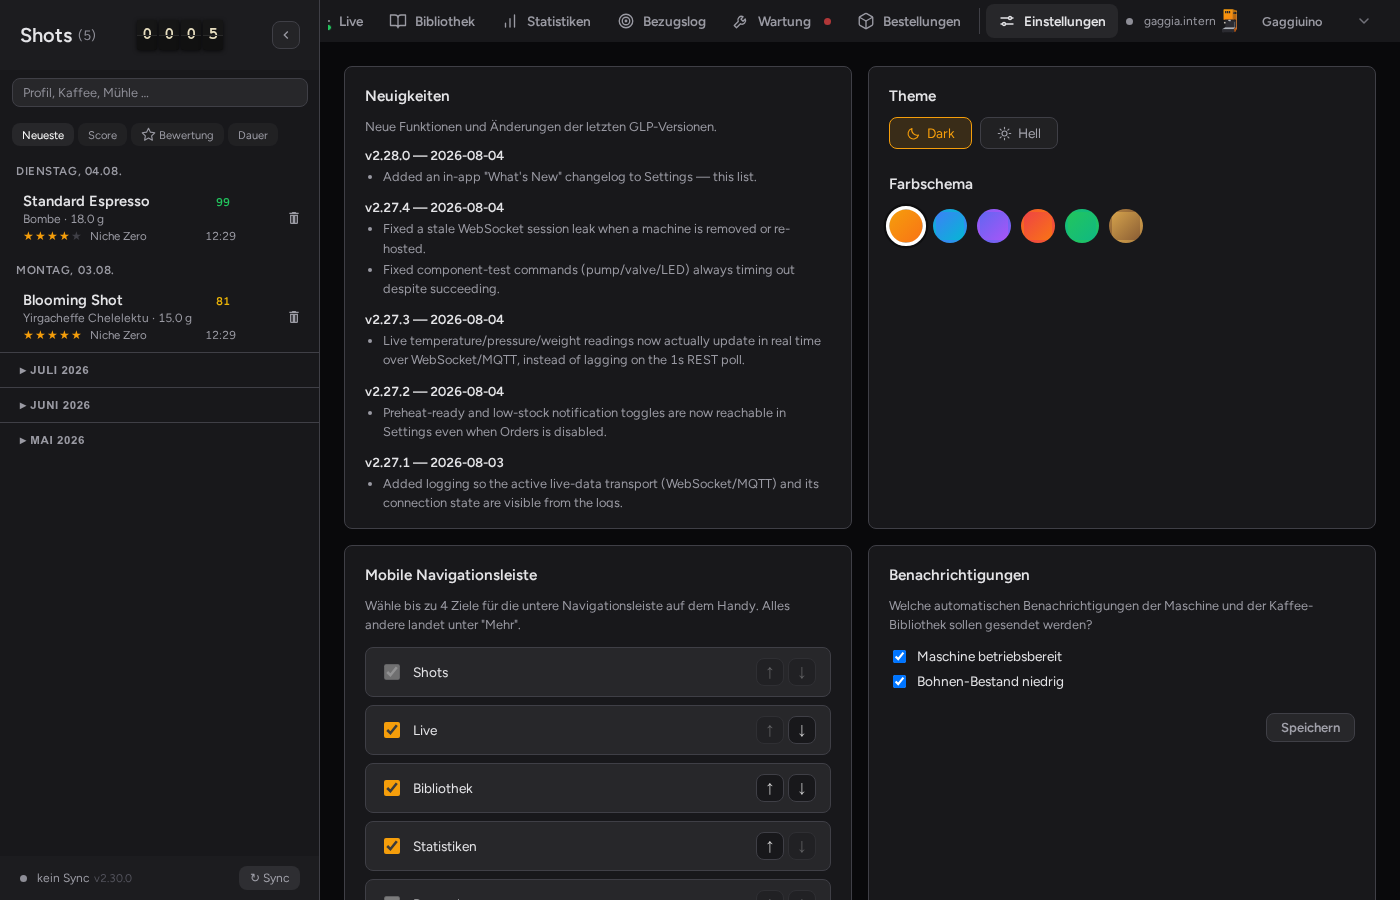
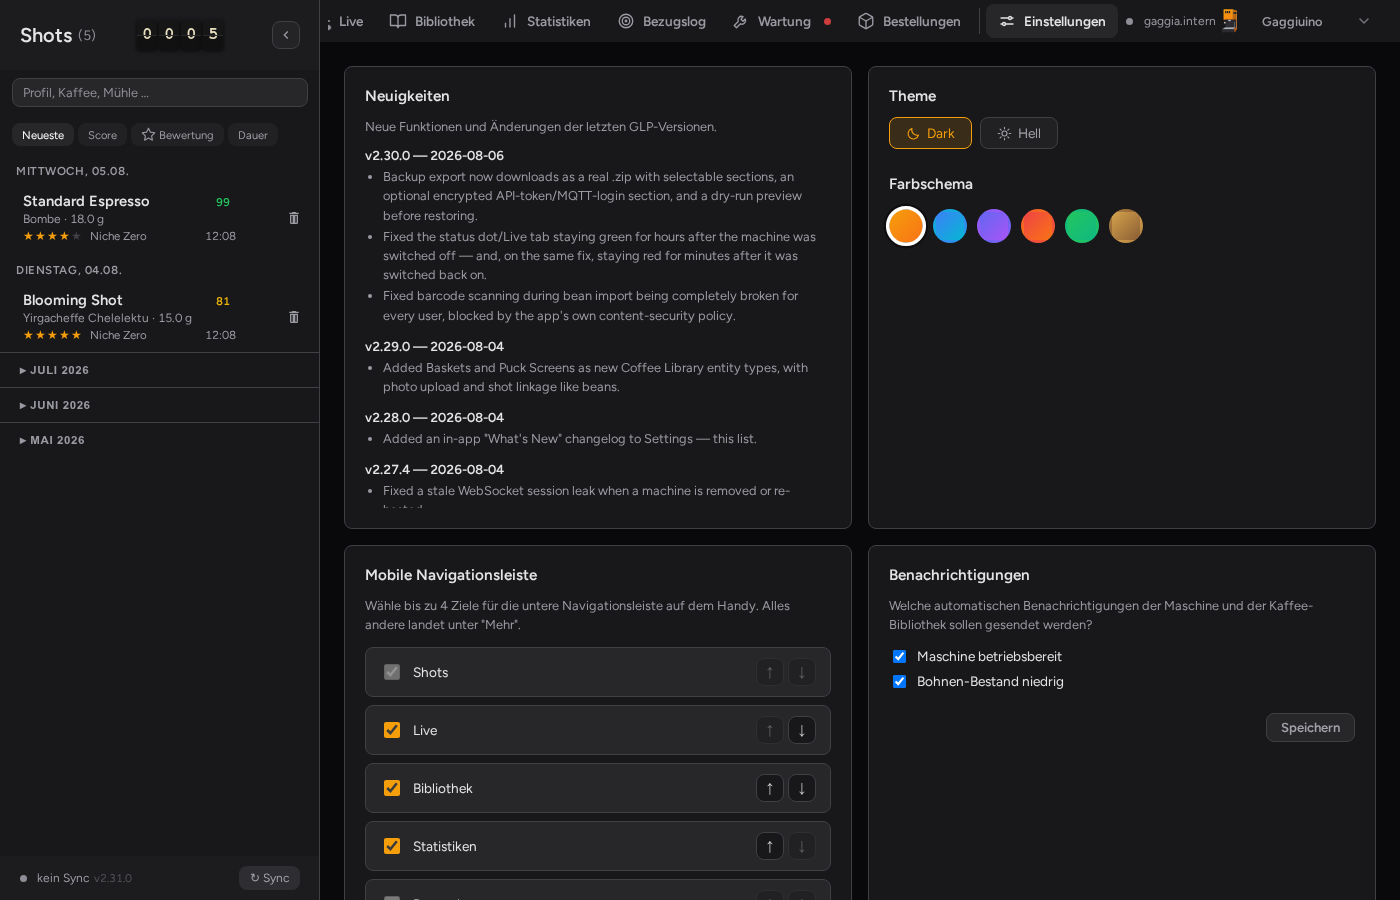
release: v2.31.0
Bump version (constants.js, config.yaml, package.json), move CHANGELOG's
Unreleased section into the 2.31.0 release entry, add a What's New card
entry, regenerate README screenshots and dev-stats, and touch up
README's Analytics/mobile-nav feature rows for basket/puck-screen stats
and edge-swipe.

Closes #654, #620, #668, #679, #684, #677, #675, #691, #681, #682, #683,
#686, #687, #689

Changed region(s): [[0.2457, 0.1867, 0.5836, 0.56], [0.0, 0.1867, 0.0921, 0.2178], [0.0307, 0.28, 0.0921, 0.3111]]

diff --git a/gaggiuino-local-profiler/lib/whats-new.js b/gaggiuino-local-profiler/lib/whats-new.js
@@ -18,6 +18,11 @@
 // caps it defensively so an out-of-order manual edit can't silently show
 // entries in the wrong order or let the list grow unbounded.
 const WHATS_NEW_ENTRIES = [
+    { version: '2.31.0', date: '2026-08-07', highlights: [
+        'Added optional per-install shot-logging defaults (Settings → "Shot logging defaults") that auto-prefill a new shot\'s annotation panel.',
+        'Added Basket Stats and Puck Screen Stats groupings to Analytics, alongside the existing Grinder Stats.',
+        'Added on-duration to the status footer, edge-swipe to open the mobile drawer, and a persistent dev-build warning banner.',
+    ] },
     { version: '2.30.0', date: '2026-08-06', highlights: [
         'Backup export now downloads as a real .zip with selectable sections, an optional encrypted API-token/MQTT-login section, and a dry-run preview before restoring.',
         'Fixed the status dot/Live tab staying green for hours after the machine was switched off — and, on the same fix, staying red for minutes after it was switched back on.',
@@ -41,9 +46,6 @@ const WHATS_NEW_ENTRIES = [
     ] },
     { version: '2.27.1', date: '2026-08-03', highlights: [
         'Added logging so the active live-data transport (WebSocket/MQTT) and its connection state are visible from the logs.',
-    ] },
-    { version: '2.27.0', date: '2026-08-03', highlights: [
-        'Added MQTT as an alternative live-data transport (Settings → "Live connection"), with Supervisor broker auto-discovery and a one-click "apply to machine" button.',
     ] },
 ];
 

diff --git a/gaggiuino-local-profiler/lib/constants.js b/gaggiuino-local-profiler/lib/constants.js
@@ -3,7 +3,7 @@ if (typeof File === 'undefined') {
     try { global.File = require('buffer').File; } catch { global.File = class File {}; }
 }
 
-const GLP_VERSION  = '2.30.0';
+const GLP_VERSION  = '2.31.0';
 const DEFAULT_PORT = 8099;
 
 const DATA_DIR             = '/data';

diff --git a/gaggiuino-local-profiler/CHANGELOG.md b/gaggiuino-local-profiler/CHANGELOG.md
@@ -1,7 +1,12 @@
-## Unreleased
+## [2.31.0] – 2026-08-07
 
-### Changed
-- **Consolidated two copy-pasted helpers into their canonical single-source-of-truth files, the same precursor shape as #638/#641/#643/#648 (machine host/switch entity resolution copy-pasted into five files, each accumulating its own bug).** `resolveMachine(rawId)` was duplicated verbatim in `routes/system.js` and `routes/machine-control.js`; `requireSettingsProxySupport()` was reimplemented inline in `routes/mqtt.js` instead of importing the canonical version. `resolveMachine()` now lives in `lib/machines/registry.js` (alongside `hostFor()`/`switchEntityFor()`/`baseUrlFor()`/`apiUrlFor()`); `requireSettingsProxySupport()` is exported from `routes/machine-control.js` for `routes/mqtt.js` to reuse. A new `eslint.config.js` `no-restricted-syntax` rule blocks either from being re-declared anywhere else, so this can't silently re-diverge in a future round. Pure refactor, no behavior change — all 1100 existing tests pass unchanged. Found during a proactive tech-debt sweep, not a live bug. Closes #679
+### Added
+- **Optional per-install default values for the shot-logging annotation panel** (Drink Type, Coffee/Bean, Basket, Puck Screen, Grinder, Dose), configurable in a new Settings → "Shot logging defaults" card. Auto-prefilled the moment a brand-new, never-annotated shot's panel is opened (`_applyShotDefaults()`, `public-src/views/shots/annotation.js`) — every prefilled field stays fully editable, and an existing annotation (even a single already-set field) is never overwritten. Backed by a new `GET`/`POST /api/shots/defaults` endpoint (`shot_defaults` kv row, `lib/repositories/ShotDefaultsRepository.js`), same storage pattern as the existing import-provider settings. Requested by a user for "most home baristas use a single primary setup" workflows. Closes #654
+- **Firmware update-availability check (#620 Phase 1, backend groundwork — no UI yet).** New `GET /api/machine/firmware/version` alongside the existing `firmware/progress`/`firmware/update` proxy (#597/#599): compares the machine's installed commit-hash version (`GET /api/settings/versions`) against the latest matching release on the firmware's own GitHub project ([`Zer0-bit/gaggiuino`](https://github.com/Zer0-bit/gaggiuino), not the docs-only `gaggiuino`/`GAGGIUINO` org), filtered by the machine's configured `system.releaseChannel` and cached hourly to stay well under GitHub's unauthenticated 60 req/hr rate limit (`lib/machines/gaggiuino/firmware-check.js`). Returns `{ installed, latest, updateAvailable, releaseUrl }`. **Documented, unverified assumption** (flagged explicitly per the issue, not silently treated as confirmed): firmware releases use commit-hash tags rather than semver (`main-<hash>`/`dev-<hash>`, no GitHub prerelease-flag distinction) — `releaseChannel` 0 (stable) and 1 (test) are both mapped to the `main-*` tag line, 2 (debug) to `dev-*`. This has not been confirmed against the OTA-trigger firmware source or a firmware maintainer; if wrong, the comparison could report the wrong update-availability for the test/debug channels. **A second, separate documented assumption**: `updateAvailable` is a raw string comparison of `installed` vs. `latest` with no format/length/case normalization — verified to match exactly (both short, lowercase hex) on the one real machine checked during research, but not guaranteed for every firmware build; if the two ever differ only in case/truncation for the same actual commit, this reports a phantom update indefinitely (never the reverse). Phase 2 (a `glp-integration` HA `update` entity consuming this) is explicitly out of scope for this round — see the PR description. Closes #620
+- **Analytics: "Basket Stats" and "Puck Screen Stats" — score/shot-count groupings by basket and puck screen**, alongside the existing Grinder Stats section, same card layout and score-color coding. Baskets/puck screens are pure ID-based library links (`annotation.basketId`/`annotation.puckScreenId`, #635) — previously purely informational, now aggregated the same way Grinder Stats already groups by `annotation.grinder`. Reuses the existing `calcShotScore()` unchanged (no scoring-formula change) and the existing `bean-cards` rendering style. No schema change — the fields were already being recorded. Closes #668
+- **The bottom-left status footer now shows how long the machine has been on ("on 2h 14m") instead of the last shot-sync clock time, while it's on.** Reuses `runtime.switchOnAt` (`lib/machine-runtime-state.js`), already tracked for `lib/preheat.js`'s elapsed-time math, exposed additively via `GET /api/status` as `machineOn`/`machineOnSince` — no new tracking added. Falls back to the previous last-sync display whenever the machine is off. Requested by Max. Closes #681
+- **Swipe from the left screen edge to open the mobile burger menu**, the mirror gesture to the existing swipe-left-to-close on the drawer itself — feels closer to how edge-swipe navigation drawers work on mobile OSes. Requested by Max. Closes #682
+- **A persistent yellow "⚠ UNSTABLE DEV BUILD" banner across the top of the app on dev-channel builds**, alongside the existing subtle version-badge suffix — much harder to miss that you're not on a real release. Non-dismissible, stacks correctly above the existing update-available and machine-unreachable banners. Requested by Max. Closes #683
 
 ### Fixed
 - **Settings → "Shot logging defaults" (#654): the Grinder field had no autocomplete, unlike the real shot annotation panel's equivalent field**, making it a plain guess-the-spelling text box instead of a pick-from-your-library list. `#annGrinder` already had `attachAutocomplete(el, () => S.coffeeLibrary.grinders.map(g => g.name))` wired up; the defaults card's `#sdGrinder` never got the same treatment when it was added. Closes #691
@@ -10,13 +15,9 @@
 - **The barcode/QR scanner (Library → ⬛ Scan) never worked — black camera preview, immediate `scan_error`, on every install.** `server.js` sends `Permissions-Policy: camera=(), microphone=(), geolocation=()`, added in an earlier security-hardening round (#176) with an empty camera allowlist — disabling camera access for the page entirely, same-origin included, so `getUserMedia()` was refused by the browser before any scanning code ran. The scanner feature (#70) shipped afterward and was broken from day one; confirmed live (zero backend log entries for `/api/library/scan/*` despite repeated scan attempts, proving the failure was purely client-side). Now `camera=(self)` — microphone/geolocation stay disabled, still unused. Closes #677
 - **Stopping the add-on (app or dev) from the Supervisor UI always reported an error instead of a clean stop.** `server.js` never registered a `SIGTERM`/`SIGINT` handler. The Node process runs as PID 1 inside the container (`docker-entrypoint.sh` execs into `gosu node`, which replaces itself), and Linux does not apply the default signal disposition to PID 1 unless a handler is explicitly installed — so `docker stop`'s SIGTERM was silently ignored, Supervisor always hit the stop timeout, and Docker force-killed the process (exit code 137), which Supervisor then reported as add-on `state: error` rather than `stopped`. `server.js` now closes the HTTP server and exits cleanly on `SIGTERM`/`SIGINT`, with a short fallback timer in case `server.close()` hangs on an open keep-alive connection. Closes #675
 
-### Added
-- **The bottom-left status footer now shows how long the machine has been on ("on 2h 14m") instead of the last shot-sync clock time, while it's on.** Reuses `runtime.switchOnAt` (`lib/machine-runtime-state.js`), already tracked for `lib/preheat.js`'s elapsed-time math, exposed additively via `GET /api/status` as `machineOn`/`machineOnSince` — no new tracking added. Falls back to the previous last-sync display whenever the machine is off. Requested by Max. Closes #681
-- **Swipe from the left screen edge to open the mobile burger menu**, the mirror gesture to the existing swipe-left-to-close on the drawer itself — feels closer to how edge-swipe navigation drawers work on mobile OSes. Requested by Max. Closes #682
-- **A persistent yellow "⚠ UNSTABLE DEV BUILD" banner across the top of the app on dev-channel builds**, alongside the existing subtle "(dev-16)" version-badge suffix — much harder to miss that you're not on a real release. Non-dismissible, stacks correctly above the existing update-available and machine-unreachable banners. Requested by Max. Closes #683
-- **Optional per-install default values for the shot-logging annotation panel** (Drink Type, Coffee/Bean, Basket, Puck Screen, Grinder, Dose), configurable in a new Settings → "Shot logging defaults" card. Auto-prefilled the moment a brand-new, never-annotated shot's panel is opened (`_applyShotDefaults()`, `public-src/views/shots/annotation.js`) — every prefilled field stays fully editable, and an existing annotation (even a single already-set field) is never overwritten. Backed by a new `GET`/`POST /api/shots/defaults` endpoint (`shot_defaults` kv row, `lib/repositories/ShotDefaultsRepository.js`), same storage pattern as the existing import-provider settings. Requested by a user for "most home baristas use a single primary setup" workflows. Closes #654
-- **Firmware update-availability check (#620 Phase 1, backend groundwork — no UI yet).** New `GET /api/machine/firmware/version` alongside the existing `firmware/progress`/`firmware/update` proxy (#597/#599): compares the machine's installed commit-hash version (`GET /api/settings/versions`) against the latest matching release on the firmware's own GitHub project ([`Zer0-bit/gaggiuino`](https://github.com/Zer0-bit/gaggiuino), not the docs-only `gaggiuino`/`GAGGIUINO` org), filtered by the machine's configured `system.releaseChannel` and cached hourly to stay well under GitHub's unauthenticated 60 req/hr rate limit (`lib/machines/gaggiuino/firmware-check.js`). Returns `{ installed, latest, updateAvailable, releaseUrl }`. **Documented, unverified assumption** (flagged explicitly per the issue, not silently treated as confirmed): firmware releases use commit-hash tags rather than semver (`main-<hash>`/`dev-<hash>`, no GitHub prerelease-flag distinction) — `releaseChannel` 0 (stable) and 1 (test) are both mapped to the `main-*` tag line, 2 (debug) to `dev-*`. This has not been confirmed against the OTA-trigger firmware source or a firmware maintainer; if wrong, the comparison could report the wrong update-availability for the test/debug channels. **A second, separate documented assumption**: `updateAvailable` is a raw string comparison of `installed` vs. `latest` with no format/length/case normalization — verified to match exactly (both short, lowercase hex) on the one real machine checked during research, but not guaranteed for every firmware build; if the two ever differ only in case/truncation for the same actual commit, this reports a phantom update indefinitely (never the reverse). Phase 2 (a `glp-integration` HA `update` entity consuming this) is explicitly out of scope for this round — see the PR description. Closes #620
-- **Analytics: "Basket Stats" and "Puck Screen Stats" — score/shot-count groupings by basket and puck screen**, alongside the existing Grinder Stats section, same card layout and score-color coding. Baskets/puck screens are pure ID-based library links (`annotation.basketId`/`annotation.puckScreenId`, #635) — previously purely informational, now aggregated the same way Grinder Stats already groups by `annotation.grinder`. Reuses the existing `calcShotScore()` unchanged (no scoring-formula change) and the existing `bean-cards` rendering style. No schema change — the fields were already being recorded. Closes #668
+### Changed
+- **Consolidated two copy-pasted helpers into their canonical single-source-of-truth files, the same precursor shape as #638/#641/#643/#648 (machine host/switch entity resolution copy-pasted into five files, each accumulating its own bug).** `resolveMachine(rawId)` was duplicated verbatim in `routes/system.js` and `routes/machine-control.js`; `requireSettingsProxySupport()` was reimplemented inline in `routes/mqtt.js` instead of importing the canonical version. `resolveMachine()` now lives in `lib/machines/registry.js` (alongside `hostFor()`/`switchEntityFor()`/`baseUrlFor()`/`apiUrlFor()`); `requireSettingsProxySupport()` is exported from `routes/machine-control.js` for `routes/mqtt.js` to reuse. A new `eslint.config.js` `no-restricted-syntax` rule blocks either from being re-declared anywhere else, so this can't silently re-diverge in a future round. Pure refactor, no behavior change — all existing tests pass unchanged. Found during a proactive tech-debt sweep, not a live bug. Closes #679
+- Internal: dev-channel build version format and changelog-path handling adjusted (CI/tooling only, no user-facing change). Closes #687, #689
 
 ## [2.30.0] – 2026-08-06
 

diff --git a/README.md b/README.md
@@ -87,7 +87,7 @@ More in [`docs/screenshots/`](gaggiuino-local-profiler/docs/screenshots/) (Dial-
 | ⇄ | **Compare Mode** | Overlay two shots side by side |
 | 👻 | **Ghost Curve & Delta Chips** | When an earlier shot exists with the same profile on the same machine, the shot detail auto-compares: a score delta chip on the verdict header, signed delta chips on pressure/flow/temp, and the previous shot's curves overlaid on the chart as a dashed ghost — independent of the explicit Compare Mode above |
 | 🏆 | **Shot Score** | Automatic 0–100 score (pressure, stability, duration, ratio, channeling), shown as a verdict-header score ring with a plain-language dial-in headline atop the shot detail; temperature/ratio target the bean's own brew recommendation from the Library when set, flagged with a target-icon badge on the header when it applies |
-| 📊 | **Analytics** | Score trend, shot calendar heatmap, bean stats, profile performance, interactive coffee world map (zoom/pan, per-bean origin points), a weekday × hour heatmap, a sortable bean ranking table (shots/score/last grind/trend), a machine comparison table (score/duration/temperature stability, once ≥2 machines are registered) and a per-bean dial-in progression chart |
+| 📊 | **Analytics** | Score trend, shot calendar heatmap, bean stats, grinder/basket/puck screen stats, profile performance, interactive coffee world map (zoom/pan, per-bean origin points), a weekday × hour heatmap, a sortable bean ranking table (shots/score/last grind/trend), a machine comparison table (score/duration/temperature stability, once ≥2 machines are registered) and a per-bean dial-in progression chart |
 | 📊 | **P·Q Diagram** | Pressure vs. flow chart — reveals extraction signature |
 | ⚗ | **EY Calculation** | Extraction Yield % when TDS and dose are entered |
 | ☕ | **Grind Recommendation** | Automatic advice based on shot duration and channeling |
@@ -125,7 +125,7 @@ More in [`docs/screenshots/`](gaggiuino-local-profiler/docs/screenshots/) (Dial-
 | 🧭 | **First-Run Onboarding & Demo Mode** | Dismissible banner when the machine isn't reachable; first-run panel with setup steps plus a "Load demo data" button that seeds a sample dataset (shots, beans, a blend, a recipe) so the app can be evaluated before connecting hardware; "End demo" removes exactly the seeded rows |
 | 📱 | **Installable App (PWA)** | Install GLP as a standalone app when accessed directly over HTTPS (own icon, no browser chrome, offline app shell); server-side gated so it's never offered inside the HA Companion App/Ingress panel, which keeps running as a normal embedded panel |
 | 🧭 | **Desktop Topbar Navigation** | Horizontal icon+label tab row (Shots/Live/Library/Analytics/Dial-in/Maintenance/Orders/Settings) in the content topbar next to the multi-machine switcher — no separate brand icon, since the app is already framed by the HA Ingress panel; replaces v2.6.0's collapsible left nav rail, removed again after real HA Ingress testing showed it stacking a second left-hand menu on top of Ingress's own sidebar |
-| 📱 | **Mobile Bottom Navigation & Burger Drawer** | Bottom nav (Shots/Live/Library/Analytics + a "More" sheet, all icon-based, no emoji); the Shots tab opens the shot detail directly (last-selected shot, falling back to newest) — the shot list itself lives exclusively in the left burger drawer, an overlay reachable from any view (swipe-left or backdrop-tap to close), alongside the bottom nav; verdict header, recipe zone and full chart fit above the fold; touch targets sized 44×44px |
+| 📱 | **Mobile Bottom Navigation & Burger Drawer** | Bottom nav (Shots/Live/Library/Analytics + a "More" sheet, all icon-based, no emoji); the Shots tab opens the shot detail directly (last-selected shot, falling back to newest) — the shot list itself lives exclusively in the left burger drawer, an overlay reachable from any view (swipe from the left edge to open, swipe-left or backdrop-tap to close), alongside the bottom nav; verdict header, recipe zone and full chart fit above the fold; touch targets sized 44×44px |
 | 🗓 | **Hybrid Shot-List Date Grouping** | Sidebar shot list groups recent shots (today/yesterday, up to ~14 days) by day; older shots collapse into per-month headers instead of one header per day forever — month headers are a collapsible accordion (collapsed by default, click to expand) |
 | 📱 | **Configurable Mobile Bottom Nav** | Choose which 4 destinations appear as the mobile bottom-nav's main icons from Settings (checkbox + up/down reorder, no drag-and-drop); Shots is pinned first, unpicked destinations fall into the "More" sheet automatically, max 4 enforced by disabling further checkboxes; persisted client-side only, falls back to today's default set if cleared/corrupted; mobile-only, desktop topbar unaffected |
 

diff --git a/DEVELOPMENT.md b/DEVELOPMENT.md
@@ -1,36 +1,36 @@
 # Development Stats
 
-Generated 2026-08-06 by `scripts/dev-stats.mjs`. Re-run it any time to refresh these numbers — they are computed live from git history, not hand-maintained.
+Generated 2026-08-07 by `scripts/dev-stats.mjs`. Re-run it any time to refresh these numbers — they are computed live from git history, not hand-maintained.
 
 ## Timeline
 
-The GLP ecosystem (this app + 3 companion repos) has been in development since **2026-05-20** — **79 days** as of the last commit (2026-08-06).
+The GLP ecosystem (this app + 3 companion repos) has been in development since **2026-05-20** — **80 days** as of the last commit (2026-08-07).
 
 | Repo | First commit | Last commit | Commits | Claude co-authored |
 |---|---|---|---|---|
-| gaggiuino-local-profiler | 2026-05-20 | 2026-08-06 | 823 | 598 (73%) |
-| glp-integration | 2026-05-22 | 2026-08-04 | 159 | 99 (62%) |
+| gaggiuino-local-profiler | 2026-05-20 | 2026-08-07 | 851 | 615 (72%) |
+| glp-integration | 2026-05-22 | 2026-08-07 | 165 | 103 (62%) |
 | glp-lovelace-card | 2026-05-24 | 2026-08-04 | 129 | 95 (74%) |
 | glp-order-card | 2026-05-25 | 2026-08-04 | 104 | 73 (70%) |
-| **Combined** | **2026-05-20** | **2026-08-06** | **1215** | **865 (71%)** |
+| **Combined** | **2026-05-20** | **2026-08-07** | **1249** | **886 (71%)** |
 
 ![Commits per repo](docs/dev-stats/commits-per-repo.png)
 
-Combined line changes (insertions + deletions across all commits): **323.290**, of which **241.662** landed in Claude-co-authored commits.
+Combined line changes (insertions + deletions across all commits): **327.539**, of which **245.012** landed in Claude-co-authored commits.
 
 Commits without a Claude co-author line are presumed human-only (manual fixes, merges, config tweaks) — not independently verified.
 
 ## Hours of development (lower-bound estimate)
 
-Clustering each repo's commit timestamps into working sessions — commits within 2h of each other join the same session, and each session gets a 30-minute lead-in credited ahead of its first commit — gives a combined **321.6 hours** across all four repos.
+Clustering each repo's commit timestamps into working sessions — commits within 2h of each other join the same session, and each session gets a 30-minute lead-in credited ahead of its first commit — gives a combined **331.2 hours** across all four repos.
 
 | Repo | Hours (session-clustered) |
 |---|---|
-| gaggiuino-local-profiler | 184.8 |
-| glp-integration | 51.1 |
+| gaggiuino-local-profiler | 192.1 |
+| glp-integration | 53.4 |
 | glp-lovelace-card | 45.8 |
 | glp-order-card | 39.9 |
-| **Combined** | **321.6** |
+| **Combined** | **331.2** |
 
 This is a **lower-bound estimate derived from git commit timestamps only**, not measured time — it undercounts real work because a long AI-agentic session (orchestration, agent dispatch, review between infrequent commits) can run for hours between commits.
 
@@ -38,7 +38,7 @@ This is a **lower-bound estimate derived from git commit timestamps only**, not 
 
 | Model | Commits |
 |---|---|
-| Claude Sonnet 5 | 399 |
+| Claude Sonnet 5 | 420 |
 | Claude Sonnet 4.6 | 348 |
 | Claude Opus 4.8 | 47 |
 | Claude Fable 5 | 40 |
